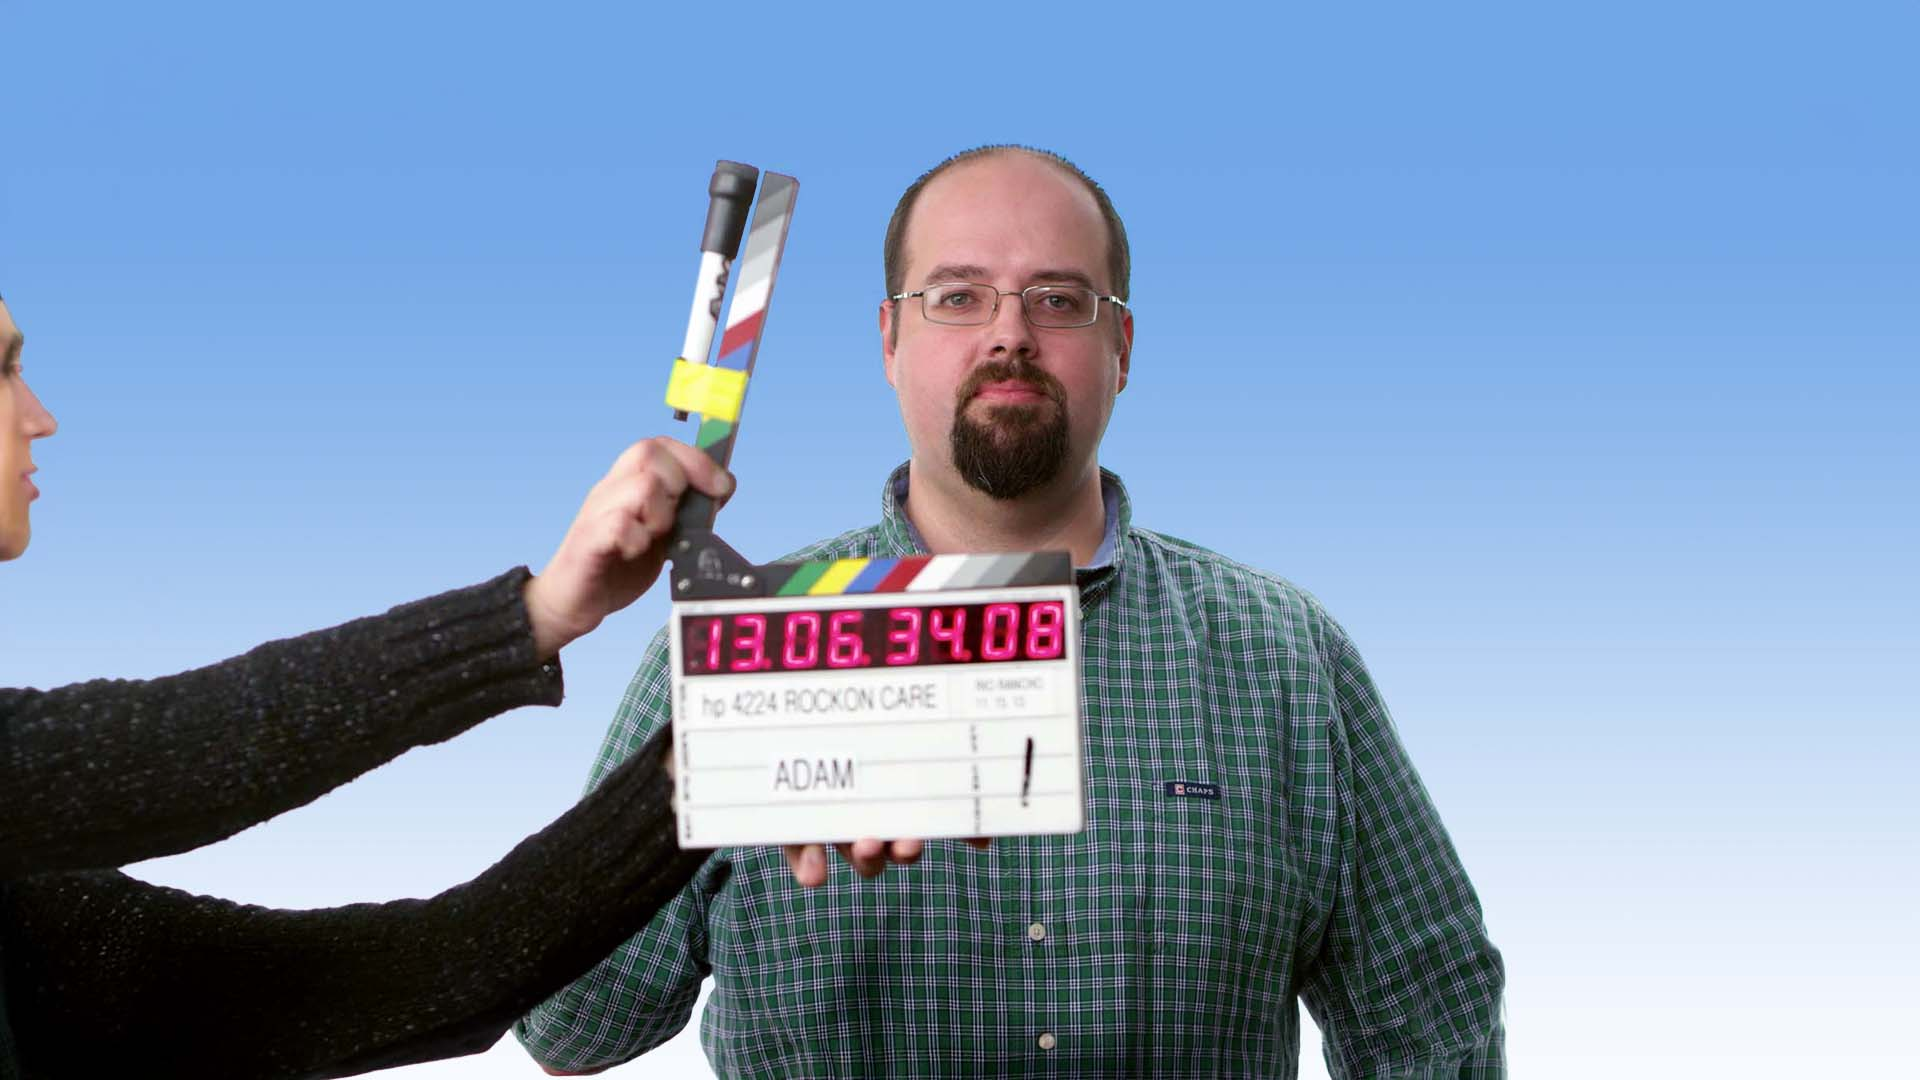
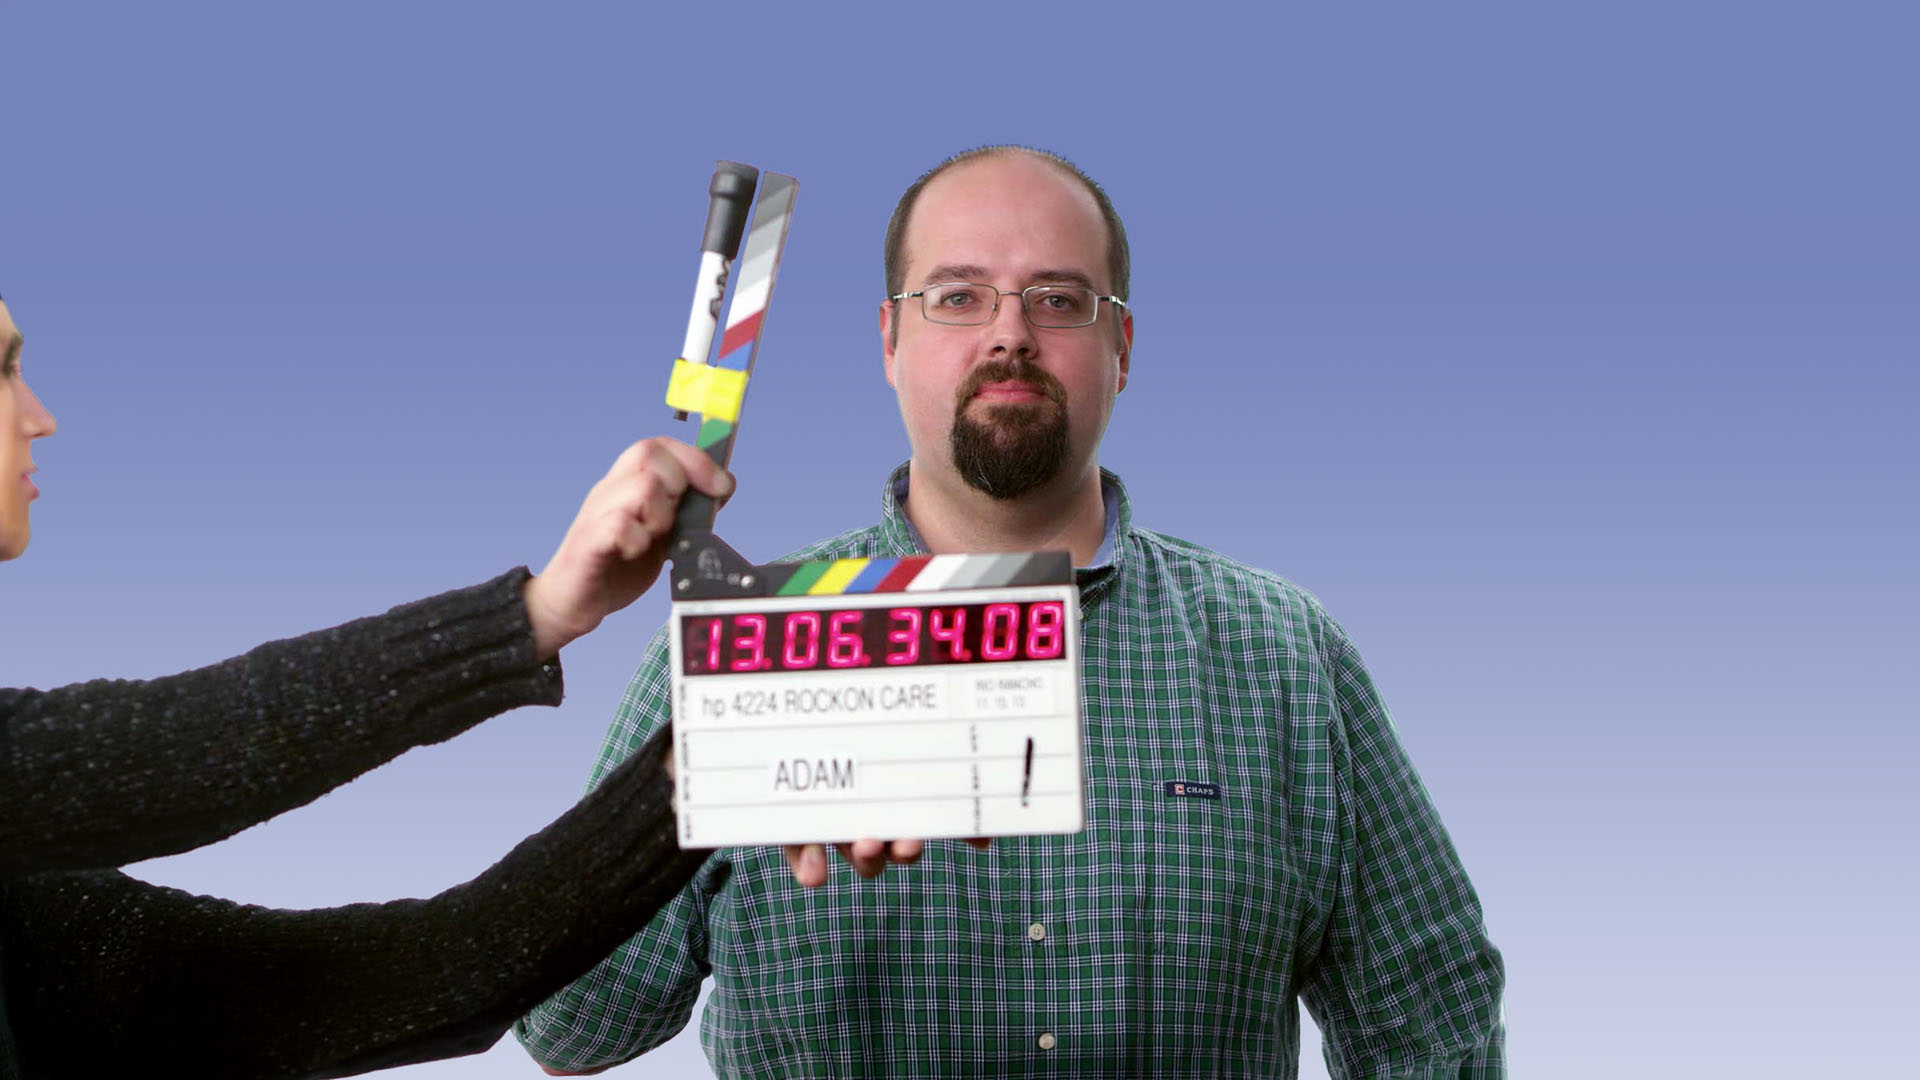
tweaking the work think fix part 1

diff --git a/app/components/WorkCarousel.tsx b/app/components/WorkCarousel.tsx
@@ -1,6 +1,6 @@
 'use client'
 
-import { useEffect, useRef, useCallback } from 'react'
+import { useEffect, useLayoutEffect, useRef, useCallback } from 'react'
 import { WORK_MANIFEST } from '../data/WorkManifest'
 import { TYPE, COLORS, useType, useColumn, useBreakpoint, MOBILE_BAND_HEIGHT_SCALE, BAND_HEADLINE, BAND_VIGNETTE, getColumn } from './SiteTokens'
 
@@ -715,6 +715,49 @@ if (m === 'nav') {
   }, [render, updateHitLayer, onOpen])
 
   // ── Mount ─────────────────────────────────────────────────────────────────
+  // Sizes the stage, the wrap and the canvas. Hoisted to component scope so the
+  // FIRST run can happen in a layout effect (below) while the resize listener
+  // that also calls it stays in the main effect — one definition, two callers.
+  const scaleStage = useCallback(() => {
+    const wrap = wrapRef.current
+    const stage = stageRef.current
+    const canvas = canvasRef.current
+    const hit = hitRef.current
+    const full = fullHitRef.current
+    if (!wrap || !stage) return
+    isMobileRef.current = window.innerWidth < 768
+    _ech = isMobileRef.current ? Math.round(CH * MOBILE_BAND_HEIGHT_SCALE) : CH
+    const s = wrap.clientWidth / CW
+    // Divide by s so the MOBILE headline lands at BAND_HEADLINE.mobileSizePx on
+    // screen after the stage's own scale is applied.
+    _hlNativeSize = isMobileRef.current
+      ? Math.round(BAND_HEADLINE.mobileSizePx / s)
+      : BAND_HEADLINE.sizePx
+    _hlPadNative = Math.round(getColumn().marginVw * CW / 100)
+    stage.style.transform = `scale(${s})`
+    stage.style.height = `${_ech}px`
+    wrap.style.height = `${_ech * s}px`
+    if (canvas) {
+      if (canvas.width !== CW || canvas.height !== _ech) {
+        canvas.width = CW
+        canvas.height = _ech
+      }
+      canvas.style.height = `${_ech}px`
+    }
+    if (hit) hit.style.height = `${_ech}px`
+    if (full) full.style.height = `${_ech}px`
+  }, [])
+
+  // The wrap has NO height of its own: its only child is the stage, which is
+  // position:absolute and therefore contributes nothing to intrinsic height.
+  // Until scaleStage runs, the wrap measures 0 and the case panel below it sits
+  // at the top of the page. Running this in a plain effect meant a painted frame
+  // with the band collapsed, then a jump down by the full band height once the
+  // height was assigned — the relayout that left stale composited tiles on the
+  // case panel in mobile Safari. A layout effect commits the height before the
+  // browser paints, so the collapsed frame never reaches the screen.
+  useLayoutEffect(() => { scaleStage() }, [scaleStage])
+
   useEffect(() => {
     // Load images
     imgsRef.current = WORK_MANIFEST.map(m => {
@@ -735,37 +778,7 @@ if (m === 'nav') {
     }
     document.addEventListener('mousemove', onMove)
 
-    // Scale stage on resize
- const scaleStage = () => {
-  const wrap = wrapRef.current
-  const stage = stageRef.current
-  const canvas = canvasRef.current
-  const hit = hitRef.current
-  const full = fullHitRef.current
-  if (!wrap || !stage) return
-  isMobileRef.current = window.innerWidth < 768
-  _ech = isMobileRef.current ? Math.round(CH * MOBILE_BAND_HEIGHT_SCALE) : CH
-  const s = wrap.clientWidth / CW
-  // Divide by s so the MOBILE headline lands at BAND_HEADLINE.mobileSizePx on
-  // screen after the stage's own scale is applied.
-  _hlNativeSize = isMobileRef.current
-    ? Math.round(BAND_HEADLINE.mobileSizePx / s)
-    : BAND_HEADLINE.sizePx
-  _hlPadNative = Math.round(getColumn().marginVw * CW / 100)
-  stage.style.transform = `scale(${s})`
-  stage.style.height = `${_ech}px`
-  wrap.style.height = `${_ech * s}px`
-if (canvas) {
-  if (canvas.width !== CW || canvas.height !== _ech) {
-    canvas.width = CW
-    canvas.height = _ech
-  }
-  canvas.style.height = `${_ech}px`
-}  if (hit) hit.style.height = `${_ech}px`
-  if (full) full.style.height = `${_ech}px`
-}
     window.addEventListener('resize', scaleStage)
-    scaleStage()
 
 onRegisterControls(stepCase, closeCase)
     updateHitLayer()
@@ -795,7 +808,7 @@ if (!fadeRan.current) {
       cancelAnimationFrame(rafRef.current)
       cancelFades()
     }
-  }, [tick, render, updateHitLayer])
+  }, [tick, render, updateHitLayer, scaleStage])
 
   // ── Expose stepCase / closeCase to parent via activeIdx ───────────────────
   // Parent passes activeIdx; we watch it to detect external nav requests.
